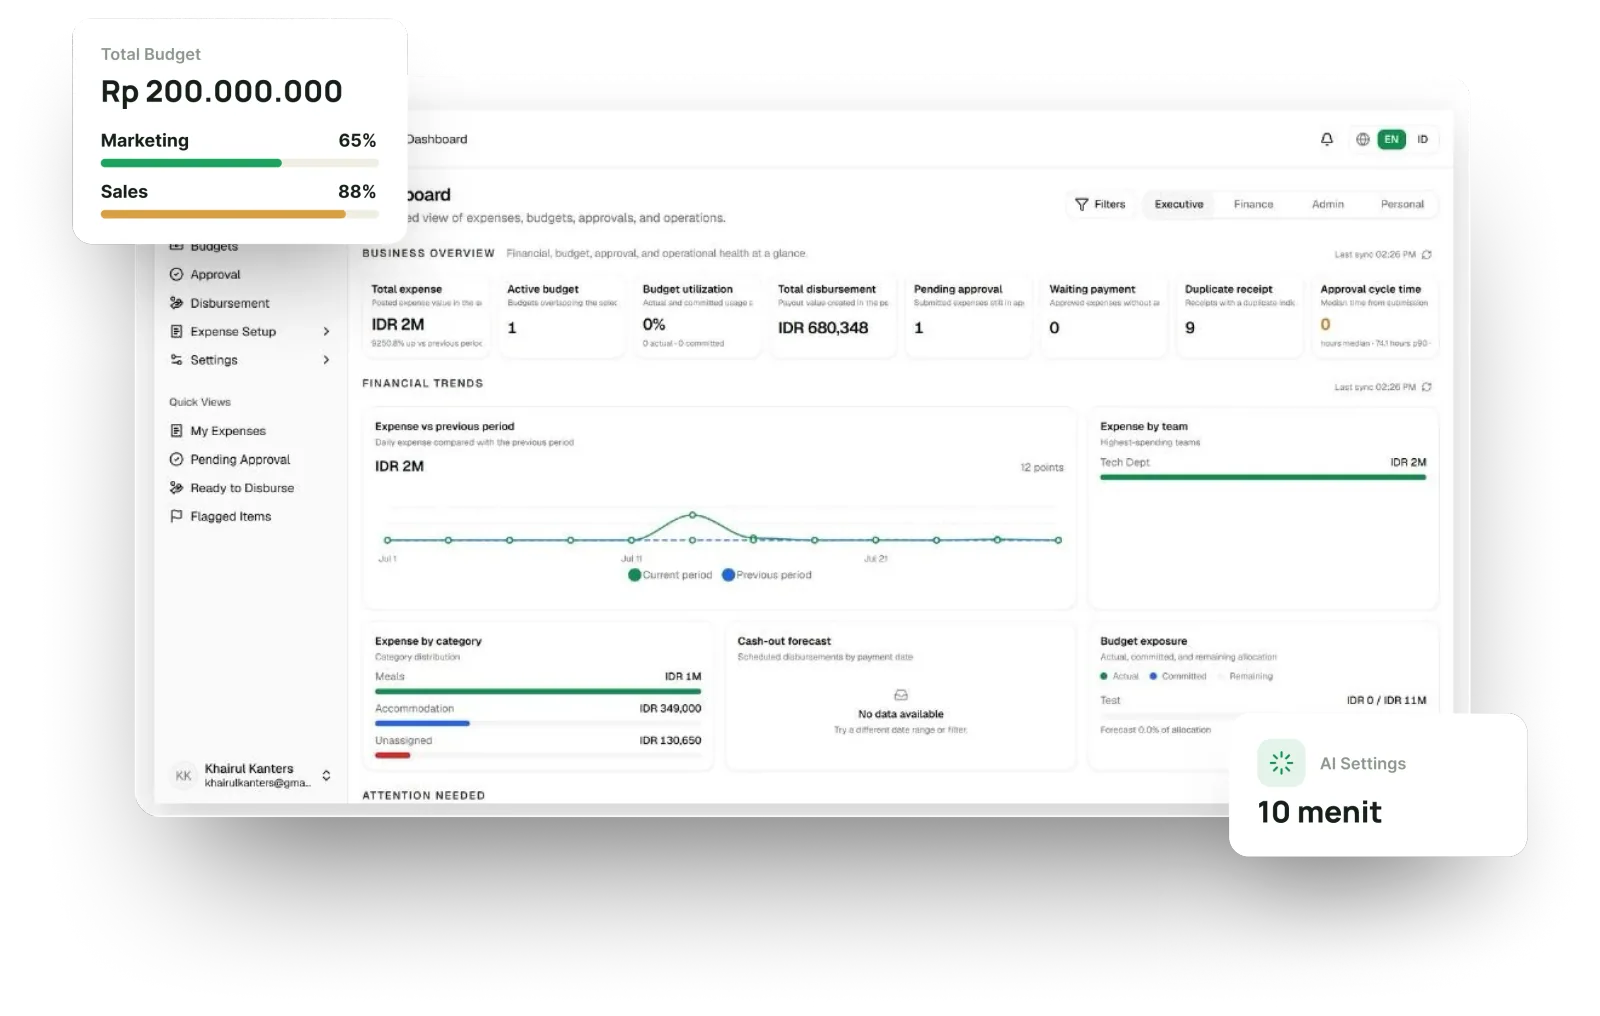
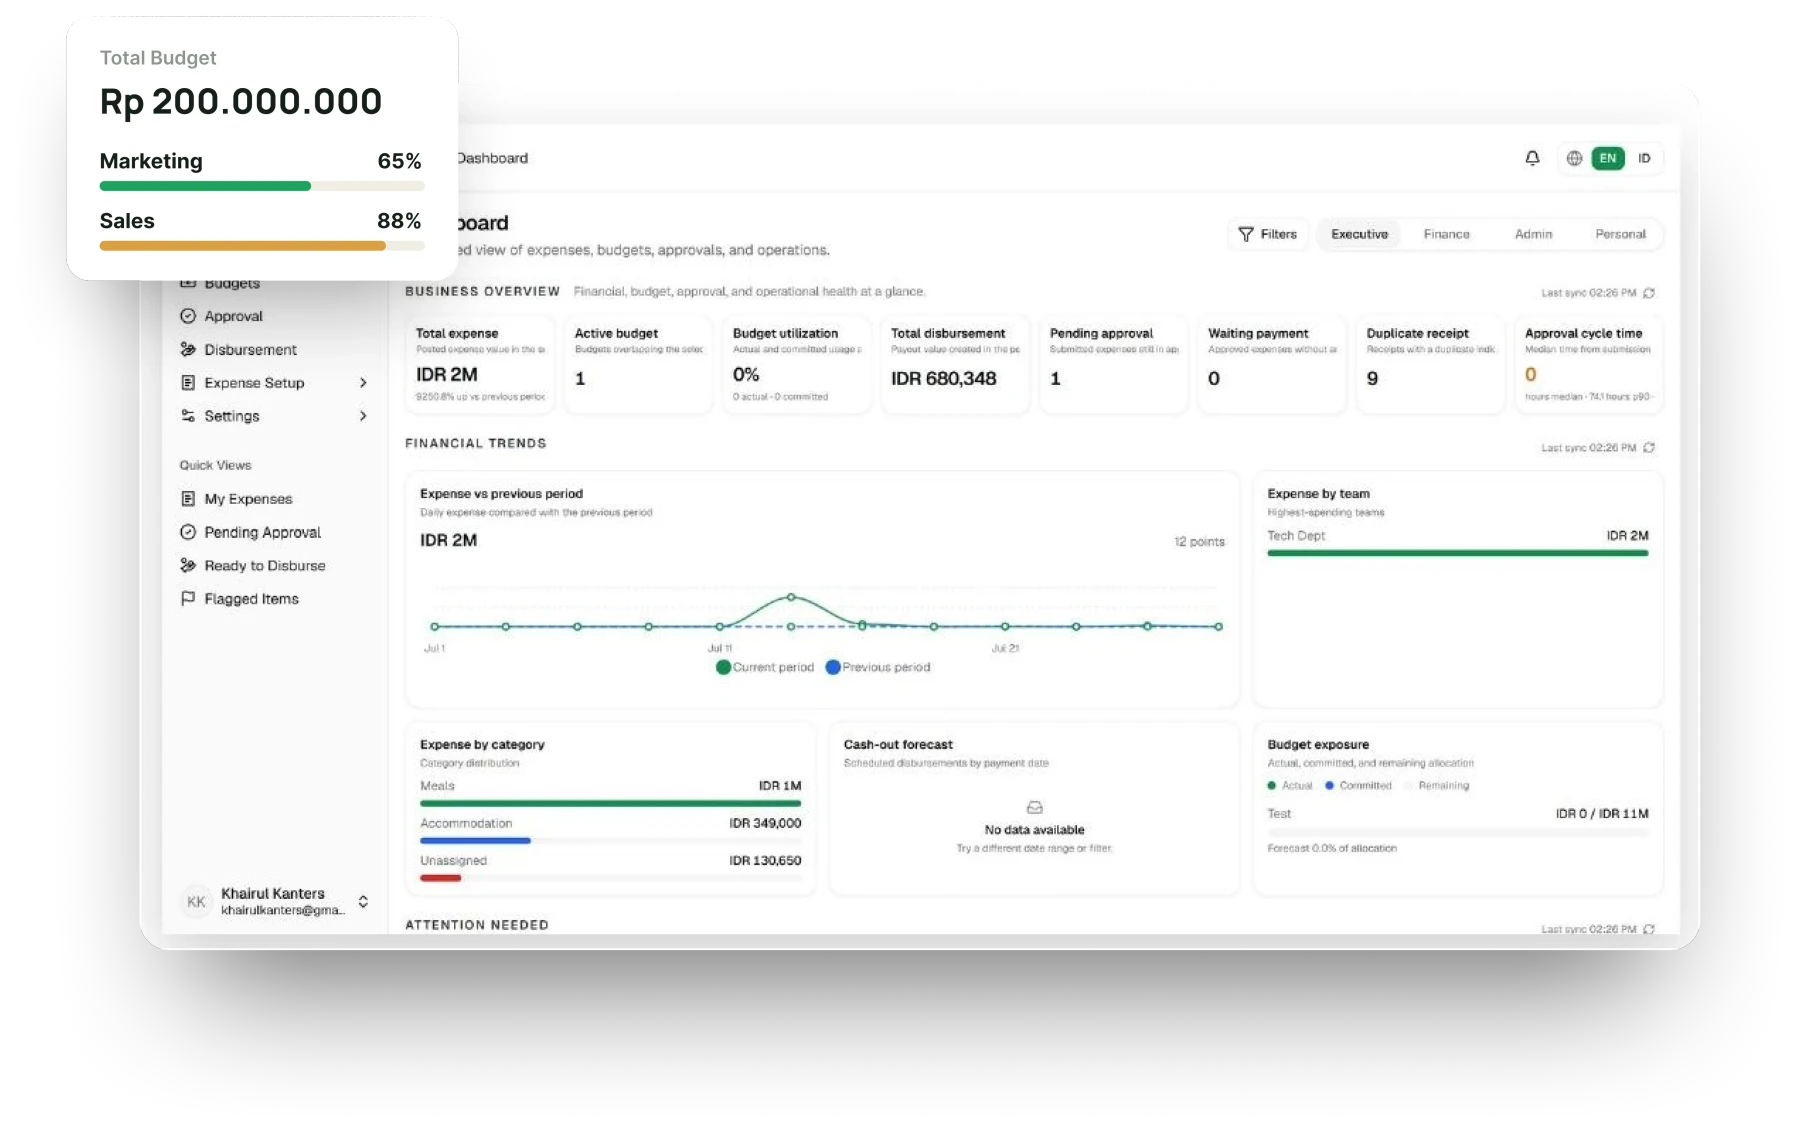
Update Spensify dashboard image and sync official social links

diff --git a/src/lib/schema-ld.ts b/src/lib/schema-ld.ts
@@ -25,9 +25,9 @@ export function generateOrganizationSchema(options: SiteOptions) {
       addressCountry: options.address.country,
     },
     sameAs: [
+      options.socialMedia.instagram,
       options.socialMedia.linkedin,
-      options.socialMedia.github,
-      options.socialMedia.twitter,
+      options.socialMedia.youtube,
     ].filter(Boolean),
   };
 }

diff --git a/src/types/content.ts b/src/types/content.ts
@@ -282,10 +282,9 @@ export interface SiteOptions {
     workingHours: string;
   };
   socialMedia: {
-    linkedin?: string;
-    github?: string;
-    twitter?: string;
     instagram?: string;
+    linkedin?: string;
+    youtube?: string;
   };
   organizationSchema: {
     legalName: string;
